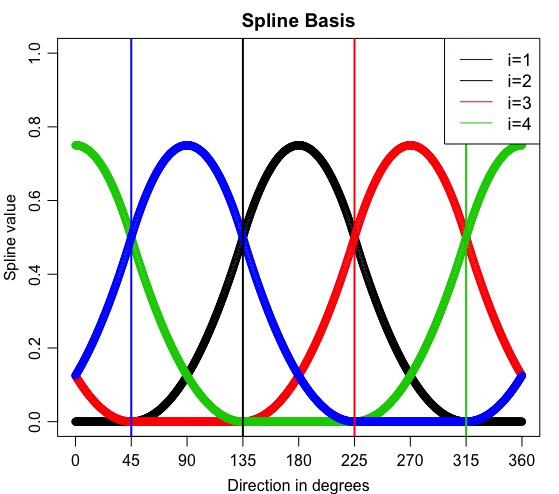
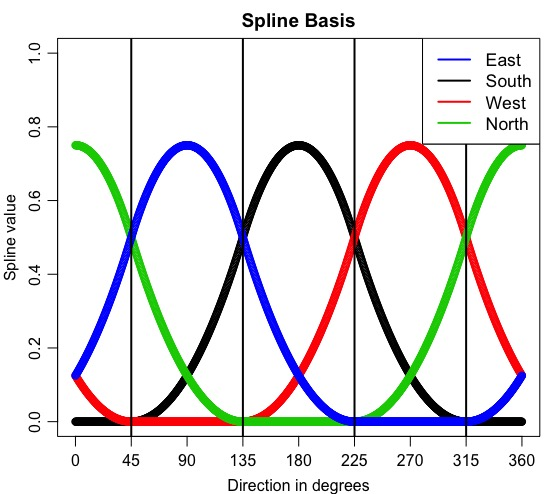
..

Changed region(s): [[0.7603, 0.0911, 0.9732, 0.8806], [0.6082, 0.0911, 0.6386, 0.8806], [0.2129, 0.0911, 0.2433, 0.8806]]

diff --git a/latex/template/chapters/Statistical.tex b/latex/template/chapters/Statistical.tex
@@ -73,10 +73,10 @@ The models include the interaction between the temperature and the wind since it
 
 \noindent As for the simple model, the multiple models must also be validated by investigating diagnostic plots and testing for normally distributed residuals. Before performing the models, the wind will be modified which the following section explains.
 
-\noindent The models show that the interactions between the attribute \texttt{Holiday} and the other attributes are chosen to be excluded. The reason is that \texttt{Holiday} is used to investigate how the consumption changes during holiday periods. The parameters will be denoted as follows: Intercept (I), Temperature (T), North (N), East (E), South (S), West (W), Mean Sea Level (MSL), Solar Radiation (SR), Winter Break (WB), Spring Break (SB), Autumn Break (AB), Christmas Break (CB), Weekend (WKND) and the interaction between the temperature and the different wind directions (T:N, T:E, T:S, T:W). The wind directions are not inserted directly into the model. As mentioned in \cref{tab: weatherdata}, the wind directions are given as degrees from $0$ to $360$. Instead of just classifying degree intervals as north, south, east or west, splines are used to model the directions. How this is done is described below.
+\noindent The models show that the interactions between the attribute \texttt{Holiday} and the other attributes are chosen to be excluded. The reason is that \texttt{Holiday} is used to investigate how the consumption changes during holiday periods. The parameters will be denoted as follows: Intercept (I), Temperature (T), North (N), East (E), South (S), West (W), Mean Sea Level (MSL), Solar Radiation (SR), Winter Break (WB), Spring Break (SB), Autumn Break (AB), Christmas Break (CB), Weekend (WKND) and the interaction between the temperature and the different wind directions (T:N, T:E, T:S, T:W). The wind directions are not inserted directly into the model. As mentioned in \cref{tab: weatherdata}, the wind directions are given as degrees from $0$ to $360$. But in the model the wind direction is not quantified in this way, rather it should be an effect on each of the four major directions: north, south, east and west. These will in the following be called wind direction categories. One way to classify the wind direction could be to use indicator variables, and assign each possible wind direction to a category. In this project spline functions will be used to determine the effect a certain wind direction has on the categories. As a consequence, a wind direction can have different effects on different categories. For example wind coming directly from north might have a large effect on the north category, but also a lesser effect on east and west. In real life the wind direction is often distorted close to the ground because of turbulence. Also wind directions on the border between two categories should have an effect on both. For these reasons, splines seems like a good choise for modelling the wind.
 
 \subsection{Splines}
-The goal is to describe the wind direction as a two-dimensional spline, $X$. Each major direction is described by a basis spline. Together they form a spline basis, that span the spline space of $X$. $X$ is defined as a linear combination of the basic splines. The theory on splines introduced here is based on \cite{Splines}. A spline basis defined by a knot vector $\Xi$ with $p$ points and a polynomial degree $q\in \mathbb{N}$. For a spline basis with $n$ basis splines of degree $q$ there are $n+q+1$ knots in the knot vector. The i'th basis spline is a function $\mathcal{N}^q_{\Xi,i}: \mathbb{R} \rightarrow \mathbb{R}$. When the knots are equidistant, the spline is uniform. Then the spline is defined by the Cox-de Boor recursion formula:
+Each major direction is described by a basis spline. Together they form a spline basis, that spans the space of the wind direction. The theory on splines introduced here is based on \cite{Splines}. A spline basis defined by a knot vector $\Xi$ with $p$ points and a polynomial degree $q\in \mathbb{N}$. For a spline basis with $n$ basis splines of degree $q$ there are $n+q+1$ knots in the knot vector. The i'th basis spline is a function $\mathcal{N}^q_{\Xi,i}: \mathbb{R} \rightarrow \mathbb{R}$. When the knots are equidistant, the spline is uniform. Then the spline is defined by the Cox-de Boor recursion formula:
 
 \begin{equation}
     \mathcal{N}_{\Xi,i}^j (\xi) =
@@ -92,7 +92,7 @@ The goal is to describe the wind direction as a two-dimensional spline, $X$. Eac
     \end{equation}
     for $j = 1,2,..., q$ and $i = 1,2,..., p + q - j$.
 
-\noindent When the splines are uniform, the continuity of the basis splines across a knot is $q-1$. This means that the $q-1$'th derivative exists and is continuous. In this project splines of degree $2$ is used, meaning that the first derivative is continuous at every point on the spline. The splines used here are periodic, and four knots are used for the knot vector, each associated with a general direction. Here they are defined as $northeast$, $southeats$, $southwest$ and $northwest$. The reason for this will be explained later in this section. For each of these knots there is a basis spline. When the degree of the splines is $2$, it means that the spline for a given knot is zero at the opposite knot. For example, when using four knots the spline peaking in the north would always be zero in the south. Higher degrees would not maintain this property. The spline basis can be seen on \cref{fig:spline_basis}. Notice that the sum of the entire spline basis at a given point always adds up to one. The figure shows how the $i$'th spline, associated with the $i$'th knot does not peak at that knot, but in the following interval. This is the reason why the knots are chosen in this way. By choosing the knots to be between the main directions north, east, south and west, this is where the basic splines peek, making it more transparent to the user when the wind directions are modelled later on.
+\noindent When the splines are uniform, the continuity of the basis splines across a knot is $q-1$. This means that the $q-1$'th derivative exists and is continuous. In this project splines of degree $2$ is used, meaning that the first derivative is continuous at every point on the spline. The splines used here are periodic, and four knots are used for the knot vector, each associated with a wind direction category. Here they are defined as $northeast$, $southeats$, $southwest$ and $northwest$. The reason for this will be explained later in this section. For each of these knots there is a basis spline. When the degree of the splines is $2$, it means that the spline for a given knot is zero at the opposite knot. For example, when using four knots the spline peaking in the north would always be zero in the south. Higher degrees would not maintain this property. The spline basis can be seen on \cref{fig:spline_basis}. Notice that the sum of the entire spline basis at a given point always adds up to one. The figure shows how the $i$'th spline, associated with the $i$'th knot does not peak at that knot, but in the following interval. This is the reason why the knots are chosen in this way. By choosing the knots to be between the main directions north, east, south and west, this is where the basic splines peek.
 
 
 
@@ -103,22 +103,9 @@ The goal is to describe the wind direction as a two-dimensional spline, $X$. Eac
     \label{fig:spline_basis}
 \end{figure}
 
+Now the splines can be used to represent their category in the linear regression model. At a given data point, the wind direction is given as input to each basic spline. The result is then weighted by the windspeed. The result is used as the effect of the effect of the category that spline represents. As an example, a windspeed of $2$ from the angle $135$ degrees would give the following result for the variables in the regression model: $x_N=0$, $x_E=0.5$, $x_S=0.5$ and $x_W=0$. These results can be derived from \cref{fig:spline_basis}.
 
 
-
-In the multiple regression model, splines will be used to model the wind direction. It does not make much sence to include the wind direction as it is in the model. It is not useful to know how significant the wind direction is, if it is not connected to the wind speed and if it is not known which directions are important. By modeling the wind direction with splines, each spline will represent a specific general direction.
-
-
-Modellere wind direction
-Lave en parameter om til flere vind retninger.
-2. degree splines
-Knots
-Mellem retningerne
-Giver mere mening for brugeren
-
-\textcolor{red}{Vi vil gerne vægte vores vind i forskellige retninger i vores model, så derfor bruger vi splines til at modellere de forskellige retninger.} \\
-
-\textcolor{red}{Tilføj billede af splines}
 
 %\subsection{Validation}
 %The multiple models has to fulfill several assumptions.
